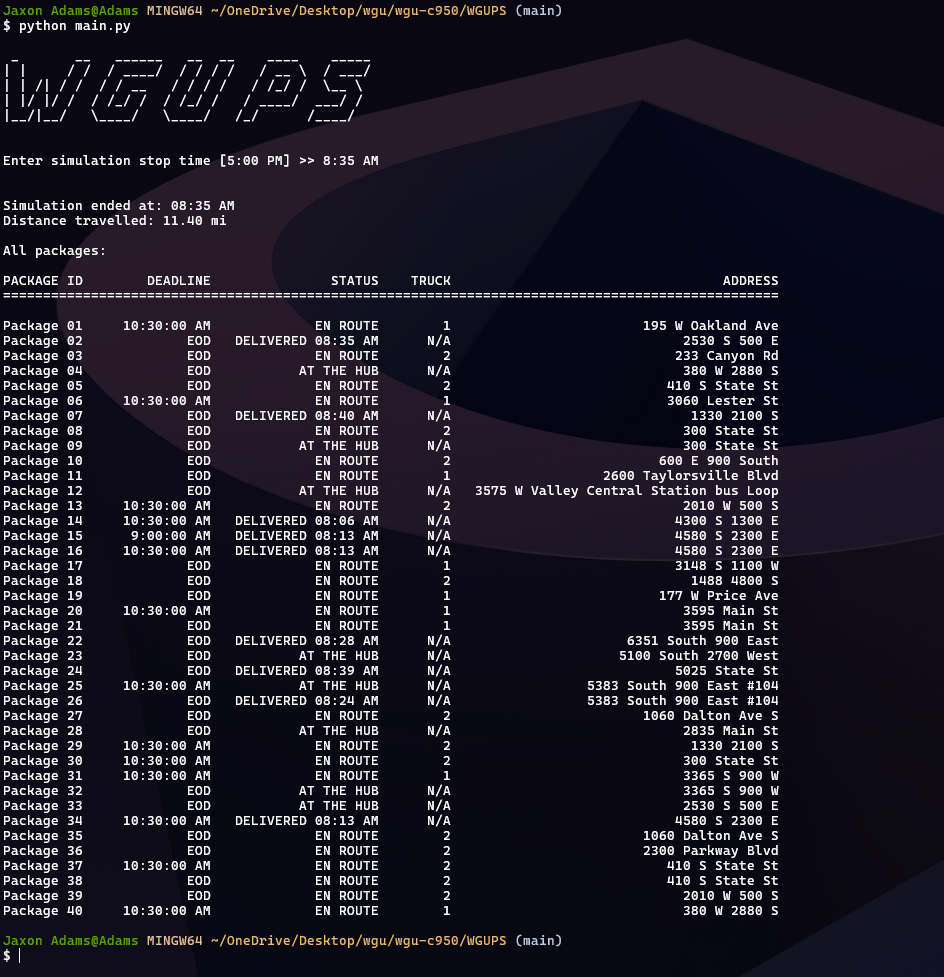
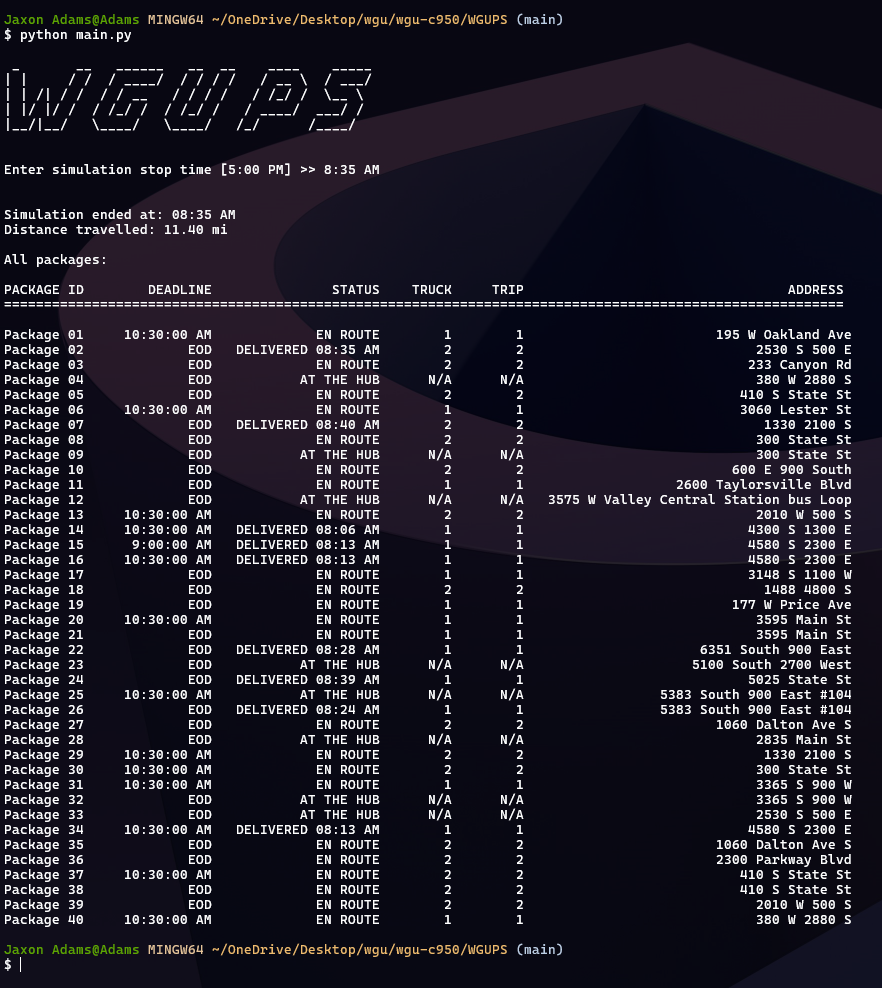
updated UI to include delivery trip number in printout

diff --git a/WGUPS/lib/truck.py b/WGUPS/lib/truck.py
@@ -34,7 +34,7 @@ class Truck:
 
         return f"<Truck {self.id}, load={len(self.packages)}, cap={self.capacity}>"
 
-    def load_package(self, package_id, package_table):
+    def load_package(self, package_id, package_table, trip_num):
         """Load a package onto the truck for delivery."""
 
         if len(self.packages) <= self.capacity and package_id is not None:
@@ -44,6 +44,7 @@ class Truck:
             package = package_table.lookup(package_id)
             package.status = f"EN ROUTE"
             package.truck = self.id
+            package.trip_number = trip_num
         else:
             # truck is full; cannot load another package
             return False
@@ -150,7 +151,6 @@ class Truck:
                 #   from the truck's list of loaded packages
                 pkg = package_table.lookup(pkg_id)
                 pkg.status = f"DELIVERED {datetime.strftime(new_sim_time, '%H:%M %p')}"
-                pkg.truck = None
                 
                 self.packages.pop(
                     self.packages.index(pkg_id)

diff --git a/WGUPS/main.py b/WGUPS/main.py
@@ -48,6 +48,8 @@ class Simulation:
             '9',                                                                                           # trip 4
         ]
 
+        self.trip_number = 0
+
         # a priority queue will hold the simulation events; i.e. truck leaves HUB or truck delivers package
         # priority queue will be ordered by the simulation time, or how many minutes since the start of the day
         self.events = queue.PriorityQueue()
@@ -138,8 +140,9 @@ class Simulation:
 
         # logic for loading a single package onto a truck is contained
         #   in the Truck class definition
+        self.trip_number += 1
         for package_id in package_list:
-            truck.load_package(package_id, self.packages)
+            truck.load_package(package_id, self.packages, self.trip_number)
 
     def prep_delivery(self, truck):
         """Prepare a delivery trip by loading packages onto a truck and

diff --git a/WGUPS/lib/package.py b/WGUPS/lib/package.py
@@ -20,6 +20,7 @@ class Package:
         self.deadline = deadline
         self.status = "AT THE HUB"
         self.truck = None
+        self.trip_number = None
 
     # custom string representation of a package instance
     def __repr__(self):
@@ -28,7 +29,7 @@ class Package:
     
     def __str__(self):
 
-        return f"Package {self.id:0>2} {self.deadline:>15} {self.status:>20} {self.truck or 'N/A':>8} {self.address:>40}"
+        return f"Package {self.id:0>2} {self.deadline:>15} {self.status:>20} {self.truck or 'N/A':>8} {self.trip_number or 'N/A':>8} {self.address:>40}"
 
     
 # !---------------------------------------------------------------------------

diff --git a/WGUPS/lib/hash_table.py b/WGUPS/lib/hash_table.py
@@ -72,8 +72,8 @@ class HashTable:
 
         # print header row
         print()
-        print(f"PACKAGE ID        DEADLINE               STATUS    TRUCK                                  ADDRESS")
-        print("================================================================================================= ")
+        print(f"PACKAGE ID        DEADLINE               STATUS    TRUCK     TRIP                                 ADDRESS")
+        print("========================================================================================================= ")
         print()
 
         # print package deadline & status for each package
